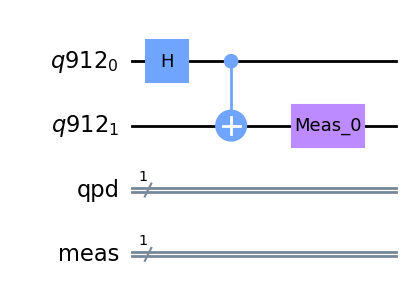
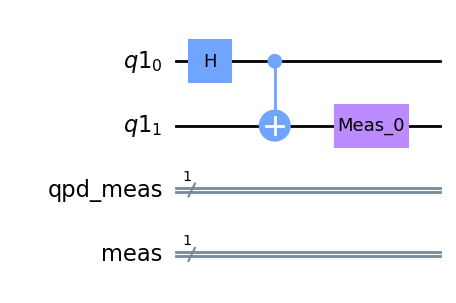
update docs circuit images to macth current version

diff --git a/docs/_build/html/_modules/QCut/wirecut.html b/docs/_build/html/_modules/QCut/wirecut.html
@@ -3,7 +3,7 @@
 <head>
   <meta charset="utf-8" />
   <meta name="viewport" content="width=device-width, initial-scale=1.0" />
-  <title>QCut.wirecut &mdash; QCut 0.0.9 documentation</title>
+  <title>QCut.wirecut &mdash; QCut 0.0.10 documentation</title>
       <link rel="stylesheet" type="text/css" href="../../_static/pygments.css?v=80d5e7a1" />
       <link rel="stylesheet" type="text/css" href="../../_static/css/theme.css?v=19f00094" />
 
@@ -14,7 +14,7 @@
   
         <script src="../../_static/jquery.js?v=5d32c60e"></script>
         <script src="../../_static/_sphinx_javascript_frameworks_compat.js?v=2cd50e6c"></script>
-        <script src="../../_static/documentation_options.js?v=f7cdbf68"></script>
+        <script src="../../_static/documentation_options.js?v=a83ce22a"></script>
         <script src="../../_static/doctools.js?v=9a2dae69"></script>
         <script src="../../_static/sphinx_highlight.js?v=dc90522c"></script>
     <script src="../../_static/js/theme.js"></script>
@@ -552,8 +552,7 @@
         <span class="n">subcircuit</span><span class="o">.</span><span class="n">measure</span><span class="p">(</span><span class="n">meas_qubits</span><span class="p">,</span> <span class="n">subcircuit</span><span class="o">.</span><span class="n">cregs</span><span class="p">[</span><span class="mi">1</span><span class="p">])</span>
     <span class="k">else</span><span class="p">:</span>
         <span class="n">subcircuit</span><span class="o">.</span><span class="n">measure</span><span class="p">(</span><span class="n">meas_qubits</span><span class="p">,</span> <span class="n">subcircuit</span><span class="o">.</span><span class="n">cregs</span><span class="p">[</span><span class="mi">0</span><span class="p">])</span>
-    <span class="c1">#decomp = [&quot;z-meas&quot;, &quot;y-meas&quot;, &quot;x-meas&quot;, &quot;id-meas&quot;, &quot;1-init&quot;, &quot;0-init&quot;, &quot;&#39;+&#39;-init&quot;, &quot;&#39;-&#39;-init&quot;, &quot;&#39;i+&#39;-init&quot;, &quot;&#39;i-&#39;-init&quot;]  # noqa: E501</span>
-    <span class="k">return</span> <span class="n">subcircuit</span> <span class="c1">#.decompose(gates_to_decompose=decomp)</span>
+    <span class="k">return</span> <span class="n">subcircuit</span>
 
 <div class="viewcode-block" id="get_placeholder_locations">
 <a class="viewcode-back" href="../../source/QCut.html#QCut.wirecut.get_placeholder_locations">[docs]</a>
@@ -572,7 +571,7 @@
 
 <div class="viewcode-block" id="get_experiment_circuits">
 <a class="viewcode-back" href="../../source/QCut.html#QCut.wirecut.get_experiment_circuits">[docs]</a>
-<span class="k">def</span> <span class="nf">get_experiment_circuits</span><span class="p">(</span><span class="n">subcircuits</span><span class="p">:</span> <span class="nb">list</span><span class="p">[</span><span class="n">QuantumCircuit</span><span class="p">],</span>
+<span class="k">def</span> <span class="nf">get_experiment_circuits</span><span class="p">(</span><span class="n">subcircuits</span><span class="p">:</span> <span class="nb">list</span><span class="p">[</span><span class="n">QuantumCircuit</span><span class="p">],</span>  <span class="c1"># noqa: C901</span>
                             <span class="n">cut_locations</span><span class="p">:</span> <span class="n">np</span><span class="o">.</span><span class="n">ndarray</span><span class="p">[</span><span class="n">CutLocation</span><span class="p">],</span>
                             <span class="p">)</span> <span class="o">-&gt;</span> <span class="nb">tuple</span><span class="p">[</span><span class="nb">list</span><span class="p">[</span><span class="nb">list</span><span class="p">[</span><span class="n">QuantumCircuit</span><span class="p">]],</span>
                                        <span class="nb">list</span><span class="p">[</span><span class="nb">int</span><span class="p">],</span>

diff --git a/docs/_build/html/source/QCut.html b/docs/_build/html/source/QCut.html
@@ -4,7 +4,7 @@
   <meta charset="utf-8" /><meta name="viewport" content="width=device-width, initial-scale=1" />
 
   <meta name="viewport" content="width=device-width, initial-scale=1.0" />
-  <title>QCut package &mdash; QCut 0.0.9 documentation</title>
+  <title>QCut package &mdash; QCut 0.0.10 documentation</title>
       <link rel="stylesheet" type="text/css" href="../_static/pygments.css?v=80d5e7a1" />
       <link rel="stylesheet" type="text/css" href="../_static/css/theme.css?v=19f00094" />
 
@@ -15,7 +15,7 @@
   
         <script src="../_static/jquery.js?v=5d32c60e"></script>
         <script src="../_static/_sphinx_javascript_frameworks_compat.js?v=2cd50e6c"></script>
-        <script src="../_static/documentation_options.js?v=f7cdbf68"></script>
+        <script src="../_static/documentation_options.js?v=a83ce22a"></script>
         <script src="../_static/doctools.js?v=9a2dae69"></script>
         <script src="../_static/sphinx_highlight.js?v=dc90522c"></script>
     <script src="../_static/js/theme.js"></script>

diff --git a/docs/_build/html/FutureFeatures.html b/docs/_build/html/FutureFeatures.html
@@ -4,7 +4,7 @@
   <meta charset="utf-8" /><meta name="viewport" content="width=device-width, initial-scale=1" />
 
   <meta name="viewport" content="width=device-width, initial-scale=1.0" />
-  <title>Possible future features &mdash; QCut 0.0.9 documentation</title>
+  <title>Possible future features &mdash; QCut 0.0.10 documentation</title>
       <link rel="stylesheet" type="text/css" href="_static/pygments.css?v=80d5e7a1" />
       <link rel="stylesheet" type="text/css" href="_static/css/theme.css?v=19f00094" />
 
@@ -15,7 +15,7 @@
   
         <script src="_static/jquery.js?v=5d32c60e"></script>
         <script src="_static/_sphinx_javascript_frameworks_compat.js?v=2cd50e6c"></script>
-        <script src="_static/documentation_options.js?v=f7cdbf68"></script>
+        <script src="_static/documentation_options.js?v=a83ce22a"></script>
         <script src="_static/doctools.js?v=9a2dae69"></script>
         <script src="_static/sphinx_highlight.js?v=dc90522c"></script>
     <script src="_static/js/theme.js"></script>

diff --git a/docs/_build/html/OtherObservables.html b/docs/_build/html/OtherObservables.html
@@ -4,7 +4,7 @@
   <meta charset="utf-8" /><meta name="viewport" content="width=device-width, initial-scale=1" />
 
   <meta name="viewport" content="width=device-width, initial-scale=1.0" />
-  <title>Other than Z observables &mdash; QCut 0.0.9 documentation</title>
+  <title>Other than Z observables &mdash; QCut 0.0.10 documentation</title>
       <link rel="stylesheet" type="text/css" href="_static/pygments.css?v=80d5e7a1" />
       <link rel="stylesheet" type="text/css" href="_static/css/theme.css?v=19f00094" />
 
@@ -15,7 +15,7 @@
   
         <script src="_static/jquery.js?v=5d32c60e"></script>
         <script src="_static/_sphinx_javascript_frameworks_compat.js?v=2cd50e6c"></script>
-        <script src="_static/documentation_options.js?v=f7cdbf68"></script>
+        <script src="_static/documentation_options.js?v=a83ce22a"></script>
         <script src="_static/doctools.js?v=9a2dae69"></script>
         <script src="_static/sphinx_highlight.js?v=dc90522c"></script>
     <script src="_static/js/theme.js"></script>

diff --git a/docs/_build/html/REM.html b/docs/_build/html/REM.html
@@ -4,7 +4,7 @@
   <meta charset="utf-8" /><meta name="viewport" content="width=device-width, initial-scale=1" />
 
   <meta name="viewport" content="width=device-width, initial-scale=1.0" />
-  <title>Readout error mitigation &mdash; QCut 0.0.9 documentation</title>
+  <title>Readout error mitigation &mdash; QCut 0.0.10 documentation</title>
       <link rel="stylesheet" type="text/css" href="_static/pygments.css?v=80d5e7a1" />
       <link rel="stylesheet" type="text/css" href="_static/css/theme.css?v=19f00094" />
 
@@ -15,7 +15,7 @@
   
         <script src="_static/jquery.js?v=5d32c60e"></script>
         <script src="_static/_sphinx_javascript_frameworks_compat.js?v=2cd50e6c"></script>
-        <script src="_static/documentation_options.js?v=f7cdbf68"></script>
+        <script src="_static/documentation_options.js?v=a83ce22a"></script>
         <script src="_static/doctools.js?v=9a2dae69"></script>
         <script src="_static/sphinx_highlight.js?v=dc90522c"></script>
     <script src="_static/js/theme.js"></script>

diff --git a/docs/_build/html/Examples.html b/docs/_build/html/Examples.html
@@ -4,7 +4,7 @@
   <meta charset="utf-8" /><meta name="viewport" content="width=device-width, initial-scale=1" />
 
   <meta name="viewport" content="width=device-width, initial-scale=1.0" />
-  <title>Examples on using QCut &mdash; QCut 0.0.9 documentation</title>
+  <title>Examples on using QCut &mdash; QCut 0.0.10 documentation</title>
       <link rel="stylesheet" type="text/css" href="_static/pygments.css?v=80d5e7a1" />
       <link rel="stylesheet" type="text/css" href="_static/css/theme.css?v=19f00094" />
 
@@ -15,7 +15,7 @@
   
         <script src="_static/jquery.js?v=5d32c60e"></script>
         <script src="_static/_sphinx_javascript_frameworks_compat.js?v=2cd50e6c"></script>
-        <script src="_static/documentation_options.js?v=f7cdbf68"></script>
+        <script src="_static/documentation_options.js?v=a83ce22a"></script>
         <script src="_static/doctools.js?v=9a2dae69"></script>
         <script src="_static/sphinx_highlight.js?v=dc90522c"></script>
     <script src="_static/js/theme.js"></script>

diff --git a/docs/_build/html/index.html b/docs/_build/html/index.html
@@ -4,7 +4,7 @@
   <meta charset="utf-8" /><meta name="viewport" content="width=device-width, initial-scale=1" />
 
   <meta name="viewport" content="width=device-width, initial-scale=1.0" />
-  <title>QCut documentation &mdash; QCut 0.0.9 documentation</title>
+  <title>QCut documentation &mdash; QCut 0.0.10 documentation</title>
       <link rel="stylesheet" type="text/css" href="_static/pygments.css?v=80d5e7a1" />
       <link rel="stylesheet" type="text/css" href="_static/css/theme.css?v=19f00094" />
 
@@ -15,7 +15,7 @@
   
         <script src="_static/jquery.js?v=5d32c60e"></script>
         <script src="_static/_sphinx_javascript_frameworks_compat.js?v=2cd50e6c"></script>
-        <script src="_static/documentation_options.js?v=f7cdbf68"></script>
+        <script src="_static/documentation_options.js?v=a83ce22a"></script>
         <script src="_static/doctools.js?v=9a2dae69"></script>
         <script src="_static/sphinx_highlight.js?v=dc90522c"></script>
     <script src="_static/js/theme.js"></script>

diff --git a/docs/_build/html/source/modules.html b/docs/_build/html/source/modules.html
@@ -4,7 +4,7 @@
   <meta charset="utf-8" /><meta name="viewport" content="width=device-width, initial-scale=1" />
 
   <meta name="viewport" content="width=device-width, initial-scale=1.0" />
-  <title>QCut &mdash; QCut 0.0.9 documentation</title>
+  <title>QCut &mdash; QCut 0.0.10 documentation</title>
       <link rel="stylesheet" type="text/css" href="../_static/pygments.css?v=80d5e7a1" />
       <link rel="stylesheet" type="text/css" href="../_static/css/theme.css?v=19f00094" />
 
@@ -15,7 +15,7 @@
   
         <script src="../_static/jquery.js?v=5d32c60e"></script>
         <script src="../_static/_sphinx_javascript_frameworks_compat.js?v=2cd50e6c"></script>
-        <script src="../_static/documentation_options.js?v=f7cdbf68"></script>
+        <script src="../_static/documentation_options.js?v=a83ce22a"></script>
         <script src="../_static/doctools.js?v=9a2dae69"></script>
         <script src="../_static/sphinx_highlight.js?v=dc90522c"></script>
     <script src="../_static/js/theme.js"></script>

diff --git a/docs/_build/html/Acknowledgement.html b/docs/_build/html/Acknowledgement.html
@@ -4,7 +4,7 @@
   <meta charset="utf-8" /><meta name="viewport" content="width=device-width, initial-scale=1" />
 
   <meta name="viewport" content="width=device-width, initial-scale=1.0" />
-  <title>Acknowledgements &mdash; QCut 0.0.9 documentation</title>
+  <title>Acknowledgements &mdash; QCut 0.0.10 documentation</title>
       <link rel="stylesheet" type="text/css" href="_static/pygments.css?v=80d5e7a1" />
       <link rel="stylesheet" type="text/css" href="_static/css/theme.css?v=19f00094" />
 
@@ -15,7 +15,7 @@
   
         <script src="_static/jquery.js?v=5d32c60e"></script>
         <script src="_static/_sphinx_javascript_frameworks_compat.js?v=2cd50e6c"></script>
-        <script src="_static/documentation_options.js?v=f7cdbf68"></script>
+        <script src="_static/documentation_options.js?v=a83ce22a"></script>
         <script src="_static/doctools.js?v=9a2dae69"></script>
         <script src="_static/sphinx_highlight.js?v=dc90522c"></script>
     <script src="_static/js/theme.js"></script>

diff --git a/docs/_build/html/_modules/QCut/backend_utility.html b/docs/_build/html/_modules/QCut/backend_utility.html
@@ -3,7 +3,7 @@
 <head>
   <meta charset="utf-8" />
   <meta name="viewport" content="width=device-width, initial-scale=1.0" />
-  <title>QCut.backend_utility &mdash; QCut 0.0.9 documentation</title>
+  <title>QCut.backend_utility &mdash; QCut 0.0.10 documentation</title>
       <link rel="stylesheet" type="text/css" href="../../_static/pygments.css?v=80d5e7a1" />
       <link rel="stylesheet" type="text/css" href="../../_static/css/theme.css?v=19f00094" />
 
@@ -14,7 +14,7 @@
   
         <script src="../../_static/jquery.js?v=5d32c60e"></script>
         <script src="../../_static/_sphinx_javascript_frameworks_compat.js?v=2cd50e6c"></script>
-        <script src="../../_static/documentation_options.js?v=f7cdbf68"></script>
+        <script src="../../_static/documentation_options.js?v=a83ce22a"></script>
         <script src="../../_static/doctools.js?v=9a2dae69"></script>
         <script src="../../_static/sphinx_highlight.js?v=dc90522c"></script>
     <script src="../../_static/js/theme.js"></script>

diff --git a/docs/_build/html/Multiple_cuts.html b/docs/_build/html/Multiple_cuts.html
@@ -4,7 +4,7 @@
   <meta charset="utf-8" /><meta name="viewport" content="width=device-width, initial-scale=1" />
 
   <meta name="viewport" content="width=device-width, initial-scale=1.0" />
-  <title>Multiple cuts &mdash; QCut 0.0.9 documentation</title>
+  <title>Multiple cuts &mdash; QCut 0.0.10 documentation</title>
       <link rel="stylesheet" type="text/css" href="_static/pygments.css?v=80d5e7a1" />
       <link rel="stylesheet" type="text/css" href="_static/css/theme.css?v=19f00094" />
 
@@ -15,7 +15,7 @@
   
         <script src="_static/jquery.js?v=5d32c60e"></script>
         <script src="_static/_sphinx_javascript_frameworks_compat.js?v=2cd50e6c"></script>
-        <script src="_static/documentation_options.js?v=f7cdbf68"></script>
+        <script src="_static/documentation_options.js?v=a83ce22a"></script>
         <script src="_static/doctools.js?v=9a2dae69"></script>
         <script src="_static/sphinx_highlight.js?v=dc90522c"></script>
     <script src="_static/js/theme.js"></script>

diff --git a/docs/_build/html/License.html b/docs/_build/html/License.html
@@ -4,7 +4,7 @@
   <meta charset="utf-8" /><meta name="viewport" content="width=device-width, initial-scale=1" />
 
   <meta name="viewport" content="width=device-width, initial-scale=1.0" />
-  <title>License &mdash; QCut 0.0.9 documentation</title>
+  <title>License &mdash; QCut 0.0.10 documentation</title>
       <link rel="stylesheet" type="text/css" href="_static/pygments.css?v=80d5e7a1" />
       <link rel="stylesheet" type="text/css" href="_static/css/theme.css?v=19f00094" />
 
@@ -15,7 +15,7 @@
   
         <script src="_static/jquery.js?v=5d32c60e"></script>
         <script src="_static/_sphinx_javascript_frameworks_compat.js?v=2cd50e6c"></script>
-        <script src="_static/documentation_options.js?v=f7cdbf68"></script>
+        <script src="_static/documentation_options.js?v=a83ce22a"></script>
         <script src="_static/doctools.js?v=9a2dae69"></script>
         <script src="_static/sphinx_highlight.js?v=dc90522c"></script>
     <script src="_static/js/theme.js"></script>
